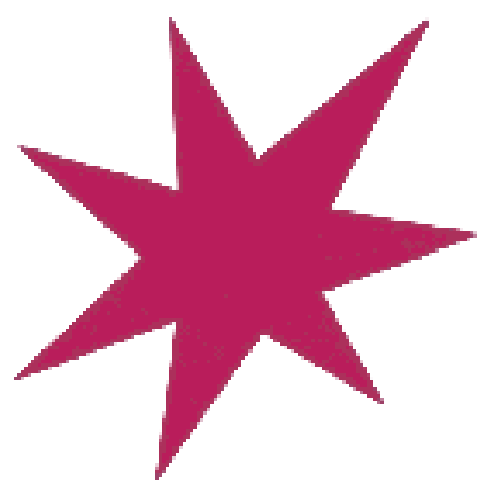
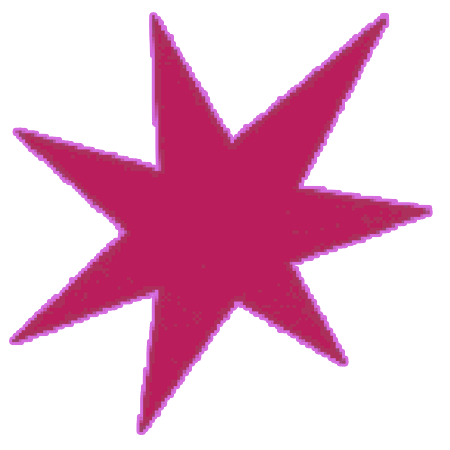
feat: update video assets and enhance guide panel styling

diff --git a/src/components/stages/StoryConsole.jsx b/src/components/stages/StoryConsole.jsx
@@ -78,7 +78,8 @@ export default function StoryConsole({
   }, [activeAsset, character?.narrativeText])
 
   const handleAssetClick = (iconId, idx) => {
-    if (!unlockedAssetIndices.has(idx)) return
+    if (!isCollected) return
+    if (idx !== character?.unlocksAssetIndex) return
     setActiveAsset(iconId)
   }
 
